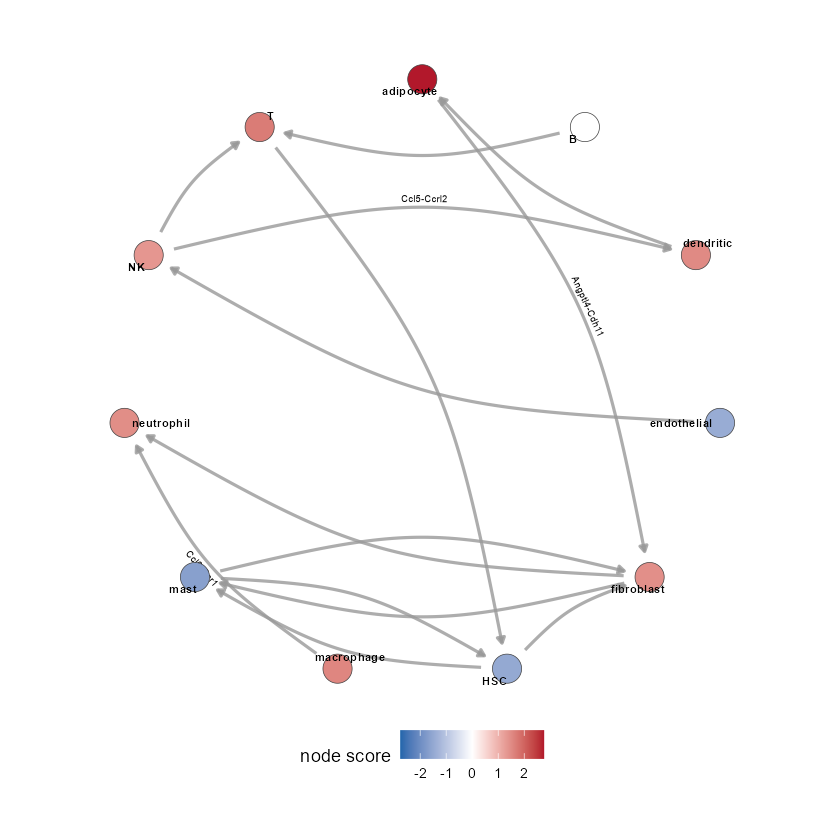
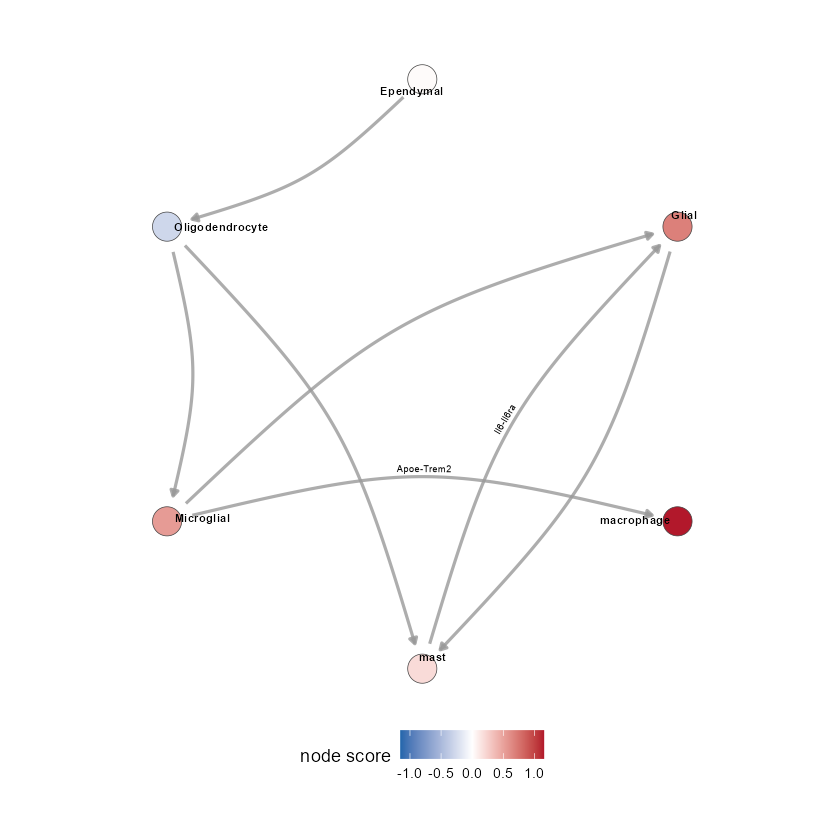
Update chord example: clarified usage and brain-data figure

diff --git a/README.md b/README.md
@@ -85,10 +85,18 @@ LR$LR_plot
 ![LR Plot](https://github.com/JH-42/DeconvCellLink/blob/main/img/LR.png)
 
 ```r
-# circular chord summary of the cell-cell network
-node_es <- ...   # named numeric, one score per lineage (e.g. mean DEG logFC of its markers)
-chord <- DCL_LR_chord(DCL_obj, node_score = node_es, lr_table = LR$results)
-chord
+# circular chord summary of the same network.
+# lr_table labels each edge with its top ligand-receptor pair (reuse LR$results from above):
+DCL_LR_chord(DCL_obj, lr_table = LR$results)
+
+# node_score (optional) colours the cell-type nodes. It is a named numeric vector,
+# one value per cell type. Here we use the mean logFC of each cell type's marker genes:
+mk <- DCL_obj$marker
+mk$lineage <- sub("_[0-9]+$", "", mk$cellName)                 # neutrophil_1 -> neutrophil
+mk <- merge(mk, de_table[, c("gene", "logFC")], by.x = "geneID", by.y = "gene")
+node_es <- tapply(mk$logFC, mk$lineage, mean)                  # named numeric: cell type -> mean logFC
+
+DCL_LR_chord(DCL_obj, lr_table = LR$results, node_score = node_es)
 ```
 ![Chord Plot](https://github.com/JH-42/DeconvCellLink/blob/main/img/chord.png)
 